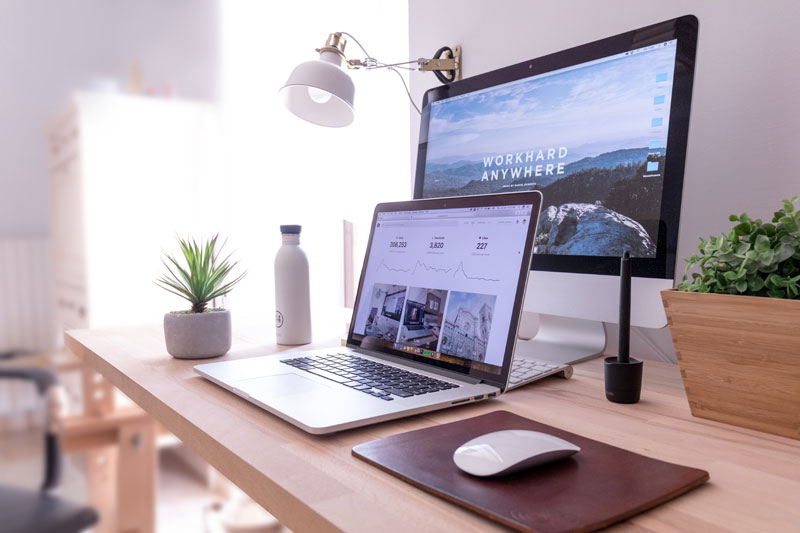
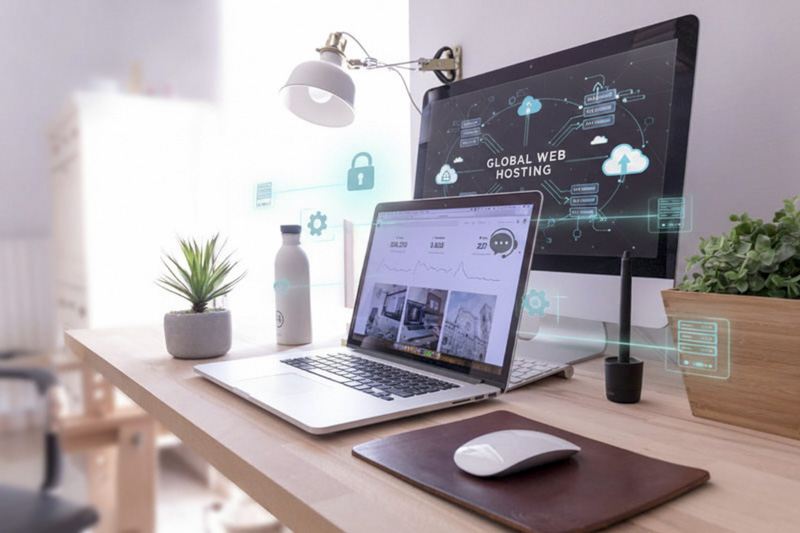
last changes to deployment

diff --git a/index.html b/index.html
@@ -332,7 +332,7 @@
           <div class="col-md-12 heading-section text-center ftco-animate">
           	<h1 class="big big-2">Projects</h1>
             <h2 class="mb-4">My Projects</h2>
-            <p>Featured showcase of web design, visual branding, and application design projects.</p>
+            <p>Featured showcase of web design, web support, and application design projects.</p>
           </div>
         </div>
     		<div class="row">
